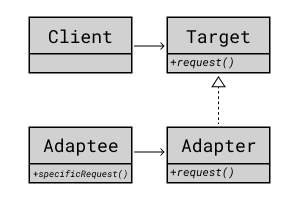
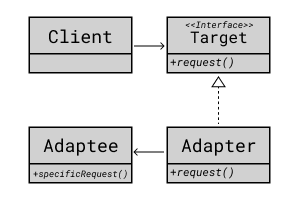
adapter pattern implements

Changed region(s): [[0.6, 0.09, 0.84, 0.24], [0.51, 0.75, 0.57, 0.78], [0.42, 0.75, 0.48, 0.78]]

diff --git a/src/adapter/NewPantheonImpl.java b/src/adapter/NewPantheonImpl.java
@@ -1,0 +1,29 @@
+package adapter;
+
+public class NewPantheonImpl implements NewPantheon {
+    private OldPantheon oldPantheon;
+
+    public NewPantheonImpl(OldPantheon oldPantheon) {
+        this.oldPantheon = oldPantheon;
+    }
+
+    @Override
+    public void cometSpear() {
+        oldPantheon.spearShot();
+    }
+
+    @Override
+    public void shieldVault() {
+        oldPantheon.aegisOfZeonia();
+    }
+
+    @Override
+    public void aegisAssault() {
+        oldPantheon.heartseekerStrike();
+    }
+
+    @Override
+    public void grandStarfall() {
+        oldPantheon.grandSkyfall();
+    }
+}

diff --git a/src/adapter/AdapterClient.java b/src/adapter/AdapterClient.java
@@ -1,0 +1,13 @@
+package adapter;
+
+public class AdapterClient {
+    public static void main(String[] args) {
+        OldPantheon oldPantheon = new OldPantheon();
+        NewPantheon pantheon = new NewPantheonImpl(oldPantheon);
+
+        pantheon.cometSpear();
+        pantheon.shieldVault();
+        pantheon.aegisAssault();
+        pantheon.grandStarfall();
+    }
+}

diff --git a/src/adapter/OldPantheon.java b/src/adapter/OldPantheon.java
@@ -1,0 +1,19 @@
+package adapter;
+
+public class OldPantheon {
+    void spearShot() {
+        System.out.println("Q 스킬");
+    }
+
+    void aegisOfZeonia() {
+        System.out.println("W 스킬");
+    }
+
+    void heartseekerStrike() {
+        System.out.println("E 스킬");
+    }
+
+    void grandSkyfall() {
+        System.out.println("R 스킬");
+    }
+}

diff --git a/src/adapter/NewPantheon.java b/src/adapter/NewPantheon.java
@@ -1,0 +1,8 @@
+package adapter;
+
+public interface NewPantheon {
+    void cometSpear();
+    void shieldVault();
+    void aegisAssault();
+    void grandStarfall();
+}

diff --git a/src/adapter/README.md b/src/adapter/README.md
@@ -2,9 +2,13 @@
 
 호환성이 없는 인터페이스를 사용 가능하도록 변환해주는 패턴
 
+Client는 Adaptee를 사용하기 위해 Target이라는 인터페이스를 사용한다.
+인터페이스의 내용은 Adapter에서 구현하고 Adapter에서는 Adaptee를 사용한다.
+
 ![adapter](adapter.png)
 
 ### 시나리오
 
-
-
+판테온은 리메이크 전 스킬이 SpearShot, AegisOfZeonia, HeartseekerStrike, GrandSkyfall이였다.
+그런데 리메이크 되면서 CometSpear, ShieldVault, AegisAssault, GrandStarfall로 바뀌었다.
+리메이크 전에 구현한 기능들을 리메이크 후에 사용할 수 있도록 디자인하라.
